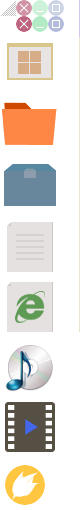
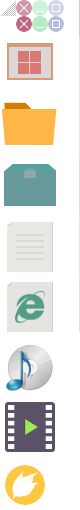
minor fixes

diff --git a/themes/bulaksu/assets/css/desk.css b/themes/bulaksu/assets/css/desk.css
@@ -243,14 +243,31 @@ body.dashboard-window-sidebar-resizing {
     margin-right: 20px;
     color: #4f494d;
 }
+.dashboard-window .dashboard-window-footer .dashboard-window-resizer,
+.dashboard-window .dashboard-window-content .dashboard-sidebar-resizer,
+.dashboard-window .dashboard-window-header a.dashboard-window-close-button:link,
+.dashboard-window .dashboard-window-header a.dashboard-window-close-button:visited,
+.dashboard-window .dashboard-window-header a.dashboard-window-maximize-button:link,
+.dashboard-window .dashboard-window-header a.dashboard-window-maximize-button:visited,
+.dashboard-window .dashboard-window-header a.dashboard-window-minimize-button:link,
+.dashboard-window .dashboard-window-header a.dashboard-window-minimize-button:visited,
+.dashboard-window .dashboard-window-content .dashboard-body-content-wrapper .dashwindow-content-icon-html,
+.dashboard-window .dashboard-window-content .dashboard-body-content-wrapper .dashwindow-content-icon-txt,
+.dashboard-window .dashboard-window-content .dashboard-body-content-wrapper .dashwindow-content-icon-archive,
+.dashboard-window .dashboard-window-content .dashboard-body-content-wrapper .dashwindow-content-icon-file,
+.dashboard-window .dashboard-window-content .dashboard-body-content-wrapper .dashwindow-content-icon-folder,
+.dashboard-window .dashboard-window-content .dashboard-body-content-wrapper .dashwindow-content-icon-audio,
+.dashboard-window .dashboard-window-content .dashboard-body-content-wrapper .dashwindow-content-icon-video,
+.dashboard-window .dashboard-window-content .dashboard-body-content-wrapper .dashwindow-content-icon-zira {
+    background-image: url(../images/dash-window-buttons-slice.png?t=1);
+    background-repeat: no-repeat;
+}
 .dashboard-window .dashboard-window-footer .dashboard-window-resizer {
     position: absolute;
     top: 0px;
     right: 0px;
     width: 14px;
     height: 14px;
-    background-image: url(../images/dash-window-buttons-slice.png);
-    background-repeat: no-repeat;
     background-position: 0 0;
     cursor: nwse-resize;
 }
@@ -267,7 +284,6 @@ body.dashboard-window-sidebar-resizing {
     left: 0px;
     width: 4px;
     height: 230px;
-    background-image: url(../images/dash-window-buttons-slice.png);
     background-repeat: repeat-y;
     background-position: -78px 0px;
     cursor: ew-resize;
@@ -281,8 +297,6 @@ body.dashboard-window-sidebar-resizing {
     left: 7px;
     top: 7px;
     text-decoration: none;
-    background-image: url(../images/dash-window-buttons-slice.png);
-    background-repeat: no-repeat;
     background-position: -16px 0px;
 }
 .dashboard-window-classic .dashboard-window-header a.dashboard-window-close-button:link,
@@ -302,8 +316,6 @@ body.dashboard-window-sidebar-resizing {
     left: 45px;
     top: 7px;
     text-decoration: none;
-    background-image: url(../images/dash-window-buttons-slice.png);
-    background-repeat: no-repeat;
     background-position: -48px 0px;
 }
 .dashboard-window-classic .dashboard-window-header a.dashboard-window-maximize-button:link,
@@ -323,8 +335,6 @@ body.dashboard-window-sidebar-resizing {
     left: 26px;
     top: 7px;
     text-decoration: none;
-    background-image: url(../images/dash-window-buttons-slice.png);
-    background-repeat: no-repeat;
     background-position: -32px 0px;
 }
 .dashboard-window-classic .dashboard-window-header a.dashboard-window-minimize-button:link,
@@ -616,28 +626,28 @@ body.dashboard-window-sidebar-resizing {
     color: #888;
 }
 .dashboard-window .dashboard-window-content .dashboard-body-content-wrapper .dashwindow-content-icon-html {
-    background: url(../images/dash-window-buttons-slice.png) no-repeat 0px -277px;
+    background-position: 0px -277px;
 }
 .dashboard-window .dashboard-window-content .dashboard-body-content-wrapper .dashwindow-content-icon-txt {
-    background: url(../images/dash-window-buttons-slice.png) no-repeat 0px -217px;
+    background-position: 0px -217px;
 }
 .dashboard-window .dashboard-window-content .dashboard-body-content-wrapper .dashwindow-content-icon-archive {
-    background: url(../images/dash-window-buttons-slice.png) no-repeat 0px -152px;
+    background-position: 0px -152px;
 }
 .dashboard-window .dashboard-window-content .dashboard-body-content-wrapper .dashwindow-content-icon-file {
-    background: url(../images/dash-window-buttons-slice.png) no-repeat 0px -32px;
+    background-position: 0px -32px;
 }
 .dashboard-window .dashboard-window-content .dashboard-body-content-wrapper .dashwindow-content-icon-folder {
-    background: url(../images/dash-window-buttons-slice.png) no-repeat 0px -92px;
+    background-position: 0px -92px;
 }
 .dashboard-window .dashboard-window-content .dashboard-body-content-wrapper .dashwindow-content-icon-audio {
-    background: url(../images/dash-window-buttons-slice.png) no-repeat 0px -338px;
+    background-position: 0px -338px;
 }
 .dashboard-window .dashboard-window-content .dashboard-body-content-wrapper .dashwindow-content-icon-video {
-    background: url(../images/dash-window-buttons-slice.png) no-repeat 0px -397px;
+    background-position: 0px -397px;
 }
 .dashboard-window .dashboard-window-content .dashboard-body-content-wrapper .dashwindow-content-icon-zira {
-    background: url(../images/dash-window-buttons-slice.png) no-repeat 0px -456px;
+    background-position: 0px -456px;
 }
 .dashboard-window .dashboard-window-content .dashboard-body-content-wrapper .dashwindow-content-icon-blank {
     background: none;

diff --git a/themes/dark/assets/css/desk.css b/themes/dark/assets/css/desk.css
@@ -253,14 +253,31 @@ body.dashboard-window-sidebar-resizing {
     margin-right: 20px;
     color: #4f494d;
 }
+.dashboard-window .dashboard-window-footer .dashboard-window-resizer,
+.dashboard-window .dashboard-window-content .dashboard-sidebar-resizer,
+.dashboard-window .dashboard-window-header a.dashboard-window-close-button:link,
+.dashboard-window .dashboard-window-header a.dashboard-window-close-button:visited,
+.dashboard-window .dashboard-window-header a.dashboard-window-maximize-button:link,
+.dashboard-window .dashboard-window-header a.dashboard-window-maximize-button:visited,
+.dashboard-window .dashboard-window-header a.dashboard-window-minimize-button:link,
+.dashboard-window .dashboard-window-header a.dashboard-window-minimize-button:visited,
+.dashboard-window .dashboard-window-content .dashboard-body-content-wrapper .dashwindow-content-icon-html,
+.dashboard-window .dashboard-window-content .dashboard-body-content-wrapper .dashwindow-content-icon-txt,
+.dashboard-window .dashboard-window-content .dashboard-body-content-wrapper .dashwindow-content-icon-archive,
+.dashboard-window .dashboard-window-content .dashboard-body-content-wrapper .dashwindow-content-icon-file,
+.dashboard-window .dashboard-window-content .dashboard-body-content-wrapper .dashwindow-content-icon-folder,
+.dashboard-window .dashboard-window-content .dashboard-body-content-wrapper .dashwindow-content-icon-audio,
+.dashboard-window .dashboard-window-content .dashboard-body-content-wrapper .dashwindow-content-icon-video,
+.dashboard-window .dashboard-window-content .dashboard-body-content-wrapper .dashwindow-content-icon-zira {
+    background-image: url(../images/dash-window-buttons-slice.png?t=1);
+    background-repeat: no-repeat;
+}
 .dashboard-window .dashboard-window-footer .dashboard-window-resizer {
     position: absolute;
     top: 0px;
     right: 0px;
     width: 14px;
     height: 14px;
-    background-image: url(../images/dash-window-buttons-slice.png);
-    background-repeat: no-repeat;
     background-position: 0 0;
     cursor: nwse-resize;
 }
@@ -277,7 +294,6 @@ body.dashboard-window-sidebar-resizing {
     left: 0px;
     width: 4px;
     height: 230px;
-    background-image: url(../images/dash-window-buttons-slice.png);
     background-repeat: repeat-y;
     background-position: -78px 0px;
     cursor: ew-resize;
@@ -291,8 +307,6 @@ body.dashboard-window-sidebar-resizing {
     left: 7px;
     top: 7px;
     text-decoration: none;
-    background-image: url(../images/dash-window-buttons-slice.png);
-    background-repeat: no-repeat;
     background-position: -16px 0px;
 }
 .dashboard-window-classic .dashboard-window-header a.dashboard-window-close-button:link,
@@ -312,8 +326,6 @@ body.dashboard-window-sidebar-resizing {
     left: 45px;
     top: 7px;
     text-decoration: none;
-    background-image: url(../images/dash-window-buttons-slice.png);
-    background-repeat: no-repeat;
     background-position: -48px 0px;
 }
 .dashboard-window-classic .dashboard-window-header a.dashboard-window-maximize-button:link,
@@ -333,8 +345,6 @@ body.dashboard-window-sidebar-resizing {
     left: 26px;
     top: 7px;
     text-decoration: none;
-    background-image: url(../images/dash-window-buttons-slice.png);
-    background-repeat: no-repeat;
     background-position: -32px 0px;
 }
 .dashboard-window-classic .dashboard-window-header a.dashboard-window-minimize-button:link,
@@ -626,28 +636,28 @@ body.dashboard-window-sidebar-resizing {
     color: #888;
 }
 .dashboard-window .dashboard-window-content .dashboard-body-content-wrapper .dashwindow-content-icon-html {
-    background: url(../images/dash-window-buttons-slice.png) no-repeat 0px -277px;
+    background-position: 0px -277px;
 }
 .dashboard-window .dashboard-window-content .dashboard-body-content-wrapper .dashwindow-content-icon-txt {
-    background: url(../images/dash-window-buttons-slice.png) no-repeat 0px -217px;
+    background-position: 0px -217px;
 }
 .dashboard-window .dashboard-window-content .dashboard-body-content-wrapper .dashwindow-content-icon-archive {
-    background: url(../images/dash-window-buttons-slice.png) no-repeat 0px -152px;
+    background-position: 0px -152px;
 }
 .dashboard-window .dashboard-window-content .dashboard-body-content-wrapper .dashwindow-content-icon-file {
-    background: url(../images/dash-window-buttons-slice.png) no-repeat 0px -32px;
+    background-position: 0px -32px;
 }
 .dashboard-window .dashboard-window-content .dashboard-body-content-wrapper .dashwindow-content-icon-folder {
-    background: url(../images/dash-window-buttons-slice.png) no-repeat 0px -92px;
+    background-position: 0px -92px;
 }
 .dashboard-window .dashboard-window-content .dashboard-body-content-wrapper .dashwindow-content-icon-audio {
-    background: url(../images/dash-window-buttons-slice.png) no-repeat 0px -338px;
+    background-position: 0px -338px;
 }
 .dashboard-window .dashboard-window-content .dashboard-body-content-wrapper .dashwindow-content-icon-video {
-    background: url(../images/dash-window-buttons-slice.png) no-repeat 0px -397px;
+    background-position: 0px -397px;
 }
 .dashboard-window .dashboard-window-content .dashboard-body-content-wrapper .dashwindow-content-icon-zira {
-    background: url(../images/dash-window-buttons-slice.png) no-repeat 0px -456px;
+    background-position: 0px -456px;
 }
 .dashboard-window .dashboard-window-content .dashboard-body-content-wrapper .dashwindow-content-icon-blank {
     background: none;

diff --git a/themes/default/assets/css/desk.css b/themes/default/assets/css/desk.css
@@ -243,14 +243,31 @@ body.dashboard-window-sidebar-resizing {
     margin-right: 20px;
     color: #4f494d;
 }
+.dashboard-window .dashboard-window-footer .dashboard-window-resizer,
+.dashboard-window .dashboard-window-content .dashboard-sidebar-resizer,
+.dashboard-window .dashboard-window-header a.dashboard-window-close-button:link,
+.dashboard-window .dashboard-window-header a.dashboard-window-close-button:visited,
+.dashboard-window .dashboard-window-header a.dashboard-window-maximize-button:link,
+.dashboard-window .dashboard-window-header a.dashboard-window-maximize-button:visited,
+.dashboard-window .dashboard-window-header a.dashboard-window-minimize-button:link,
+.dashboard-window .dashboard-window-header a.dashboard-window-minimize-button:visited,
+.dashboard-window .dashboard-window-content .dashboard-body-content-wrapper .dashwindow-content-icon-html,
+.dashboard-window .dashboard-window-content .dashboard-body-content-wrapper .dashwindow-content-icon-txt,
+.dashboard-window .dashboard-window-content .dashboard-body-content-wrapper .dashwindow-content-icon-archive,
+.dashboard-window .dashboard-window-content .dashboard-body-content-wrapper .dashwindow-content-icon-file,
+.dashboard-window .dashboard-window-content .dashboard-body-content-wrapper .dashwindow-content-icon-folder,
+.dashboard-window .dashboard-window-content .dashboard-body-content-wrapper .dashwindow-content-icon-audio,
+.dashboard-window .dashboard-window-content .dashboard-body-content-wrapper .dashwindow-content-icon-video,
+.dashboard-window .dashboard-window-content .dashboard-body-content-wrapper .dashwindow-content-icon-zira {
+    background-image: url(../images/dash-window-buttons-slice.png?t=1);
+    background-repeat: no-repeat;
+}
 .dashboard-window .dashboard-window-footer .dashboard-window-resizer {
     position: absolute;
     top: 0px;
     right: 0px;
     width: 14px;
     height: 14px;
-    background-image: url(../images/dash-window-buttons-slice.png);
-    background-repeat: no-repeat;
     background-position: 0 0;
     cursor: nwse-resize;
 }
@@ -267,7 +284,6 @@ body.dashboard-window-sidebar-resizing {
     left: 0px;
     width: 4px;
     height: 230px;
-    background-image: url(../images/dash-window-buttons-slice.png);
     background-repeat: repeat-y;
     background-position: -78px 0px;
     cursor: ew-resize;
@@ -281,8 +297,6 @@ body.dashboard-window-sidebar-resizing {
     left: 7px;
     top: 7px;
     text-decoration: none;
-    background-image: url(../images/dash-window-buttons-slice.png);
-    background-repeat: no-repeat;
     background-position: -16px 0px;
 }
 .dashboard-window-classic .dashboard-window-header a.dashboard-window-close-button:link,
@@ -302,8 +316,6 @@ body.dashboard-window-sidebar-resizing {
     left: 45px;
     top: 7px;
     text-decoration: none;
-    background-image: url(../images/dash-window-buttons-slice.png);
-    background-repeat: no-repeat;
     background-position: -48px 0px;
 }
 .dashboard-window-classic .dashboard-window-header a.dashboard-window-maximize-button:link,
@@ -323,8 +335,6 @@ body.dashboard-window-sidebar-resizing {
     left: 26px;
     top: 7px;
     text-decoration: none;
-    background-image: url(../images/dash-window-buttons-slice.png);
-    background-repeat: no-repeat;
     background-position: -32px 0px;
 }
 .dashboard-window-classic .dashboard-window-header a.dashboard-window-minimize-button:link,
@@ -616,28 +626,28 @@ body.dashboard-window-sidebar-resizing {
     color: #888;
 }
 .dashboard-window .dashboard-window-content .dashboard-body-content-wrapper .dashwindow-content-icon-html {
-    background: url(../images/dash-window-buttons-slice.png) no-repeat 0px -277px;
+    background-position: 0px -277px;
 }
 .dashboard-window .dashboard-window-content .dashboard-body-content-wrapper .dashwindow-content-icon-txt {
-    background: url(../images/dash-window-buttons-slice.png) no-repeat 0px -217px;
+    background-position: 0px -217px;
 }
 .dashboard-window .dashboard-window-content .dashboard-body-content-wrapper .dashwindow-content-icon-archive {
-    background: url(../images/dash-window-buttons-slice.png) no-repeat 0px -152px;
+    background-position: 0px -152px;
 }
 .dashboard-window .dashboard-window-content .dashboard-body-content-wrapper .dashwindow-content-icon-file {
-    background: url(../images/dash-window-buttons-slice.png) no-repeat 0px -32px;
+    background-position: 0px -32px;
 }
 .dashboard-window .dashboard-window-content .dashboard-body-content-wrapper .dashwindow-content-icon-folder {
-    background: url(../images/dash-window-buttons-slice.png) no-repeat 0px -92px;
+    background-position: 0px -92px;
 }
 .dashboard-window .dashboard-window-content .dashboard-body-content-wrapper .dashwindow-content-icon-audio {
-    background: url(../images/dash-window-buttons-slice.png) no-repeat 0px -338px;
+    background-position: 0px -338px;
 }
 .dashboard-window .dashboard-window-content .dashboard-body-content-wrapper .dashwindow-content-icon-video {
-    background: url(../images/dash-window-buttons-slice.png) no-repeat 0px -397px;
+    background-position: 0px -397px;
 }
 .dashboard-window .dashboard-window-content .dashboard-body-content-wrapper .dashwindow-content-icon-zira {
-    background: url(../images/dash-window-buttons-slice.png) no-repeat 0px -456px;
+    background-position: 0px -456px;
 }
 .dashboard-window .dashboard-window-content .dashboard-body-content-wrapper .dashwindow-content-icon-blank {
     background: none;

diff --git a/dash/dash.php b/dash/dash.php
@@ -288,8 +288,22 @@ class Dash {
     public static function isFrame() {
         return Zira\Request::get(self::GET_FRAME_PARAM)==self::GET_FRAME_VALUE;
     }
+    
+    public static function addAssetStyle($url) {
+        $attributes = array();
+        if (!isset($attributes['rel'])) $attributes['rel'] = 'stylesheet';
+        if (!isset($attributes['type'])) $attributes['type'] = 'text/css';
+        $attributes['href'] = rtrim(BASE_URL,'/') . '/' . ASSETS_DIR . '/' . CSS_DIR . '/' .$url.'?t='.Zira::VERSION;
+        Zira\View::addHTML(Zira\Helper::tag_short('link', $attributes),Zira\View::VAR_STYLES);
+    }
 
-    protected static function addViewStyle($url) {
+    public static function addAssetScript($url) {
+        $attributes = array();
+        $attributes['src'] = rtrim(BASE_URL,'/') . '/' . ASSETS_DIR . '/' . JS_DIR . '/' .$url.'?t='.Zira::VERSION;
+        Zira\View::addHTML(Zira\Helper::tag('script', null, $attributes),Zira\View::VAR_SCRIPTS);
+    }
+
+    public static function addViewStyle($url) {
         $attributes = array();
         if (!isset($attributes['rel'])) $attributes['rel'] = 'stylesheet';
         if (!isset($attributes['type'])) $attributes['type'] = 'text/css';
@@ -301,12 +315,12 @@ class Dash {
         Zira\View::addHTML(Zira\Helper::tag_short('link', $attributes),Zira\View::VAR_STYLES);
     }
 
-    protected static function addViewScript($url) {
+    public static function addViewScript($url) {
         $attributes = array();
         if (file_exists(ROOT_DIR . DIRECTORY_SEPARATOR . THEMES_DIR . DIRECTORY_SEPARATOR . Zira\View::getTheme() . DIRECTORY_SEPARATOR . ASSETS_DIR . DIRECTORY_SEPARATOR . JS_DIR . DIRECTORY_SEPARATOR .$url)) {
-            $attributes['src'] = rtrim(BASE_URL,'/') . '/' . THEMES_DIR . '/' . Zira\View::getTheme() . '/' . ASSETS_DIR . '/' . JS_DIR . '/' .$url;
+            $attributes['src'] = rtrim(BASE_URL,'/') . '/' . THEMES_DIR . '/' . Zira\View::getTheme() . '/' . ASSETS_DIR . '/' . JS_DIR . '/' .$url.'?t='.Zira::VERSION;
         } else {
-            $attributes['src'] = rtrim(BASE_URL,'/') . '/' . THEMES_DIR . '/' . DEFAULT_THEME . '/' . ASSETS_DIR . '/' . JS_DIR . '/' .$url;
+            $attributes['src'] = rtrim(BASE_URL,'/') . '/' . THEMES_DIR . '/' . DEFAULT_THEME . '/' . ASSETS_DIR . '/' . JS_DIR . '/' .$url.'?t='.Zira::VERSION;
         }
         Zira\View::addHTML(Zira\Helper::tag('script', null, $attributes),Zira\View::VAR_SCRIPTS);
     }

diff --git a/dash/windows/window.php b/dash/windows/window.php
@@ -94,9 +94,10 @@ abstract class Window {
         if (empty($this->_js_name)) throw new \Exception('Failed to construct window: ' . self::getClass());
         
         $maximized = (bool)Config::get('dashwindow_maximized') || Dash\Dash::isMobile();
-        $this->setMaximized($maximized);
-        
-        if (Dash\Dash::isMobile()) $this->setAnimating(false);
+        if ($maximized) {
+            $this->setMaximized(true);
+            $this->setAnimating(false);
+        }
     }
 
     public function build() {

diff --git a/dash/controllers/index.php b/dash/controllers/index.php
@@ -12,7 +12,7 @@ use Dash;
 
 class Index extends Dash\Controller {
     public function index() {
-        Zira\View::addScript('dash.js');
+        Dash\Dash::addAssetScript('dash.js');
 
         $script = Zira\Helper::tag_open('script', array('type'=>'text/javascript'));
         $script .= 'jQuery(document).ready(function(){ ';
